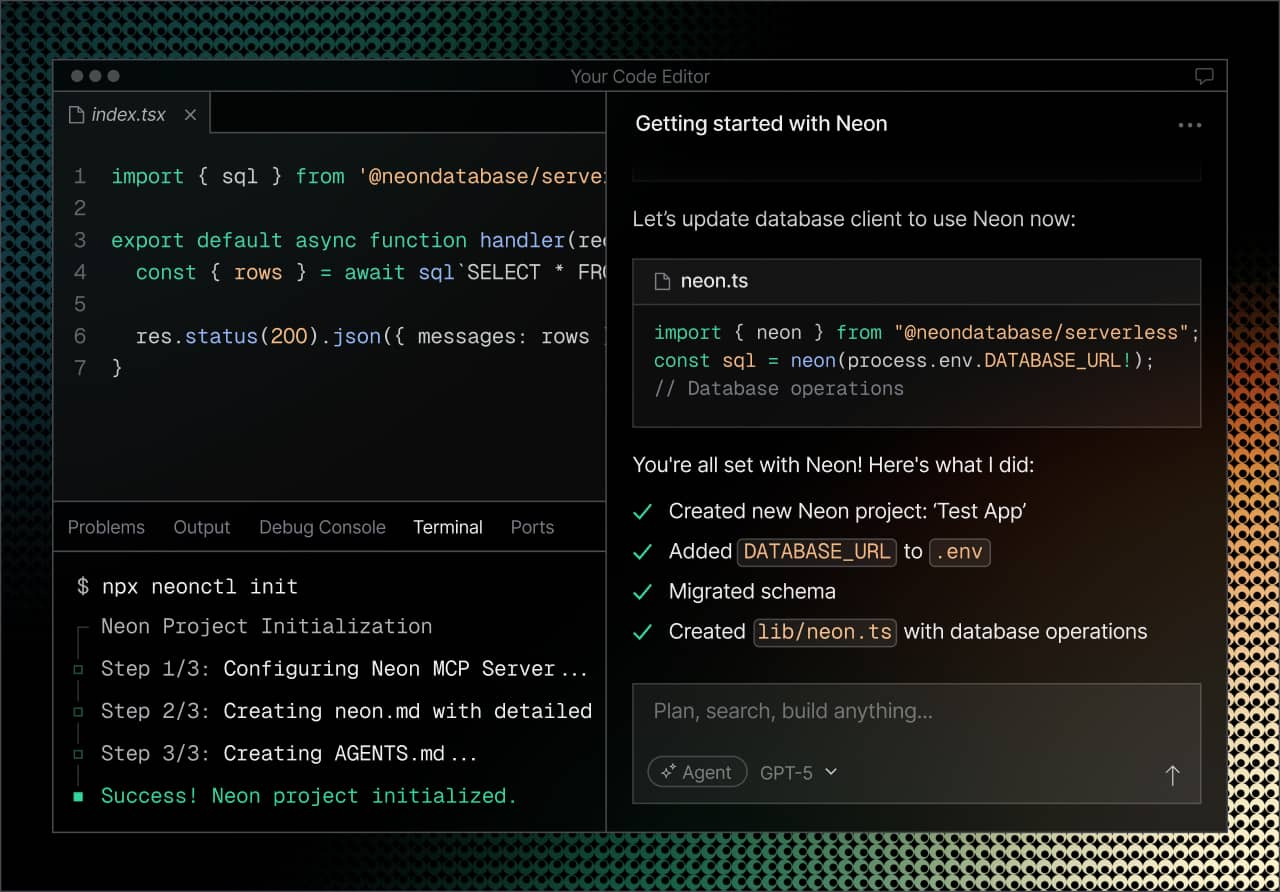
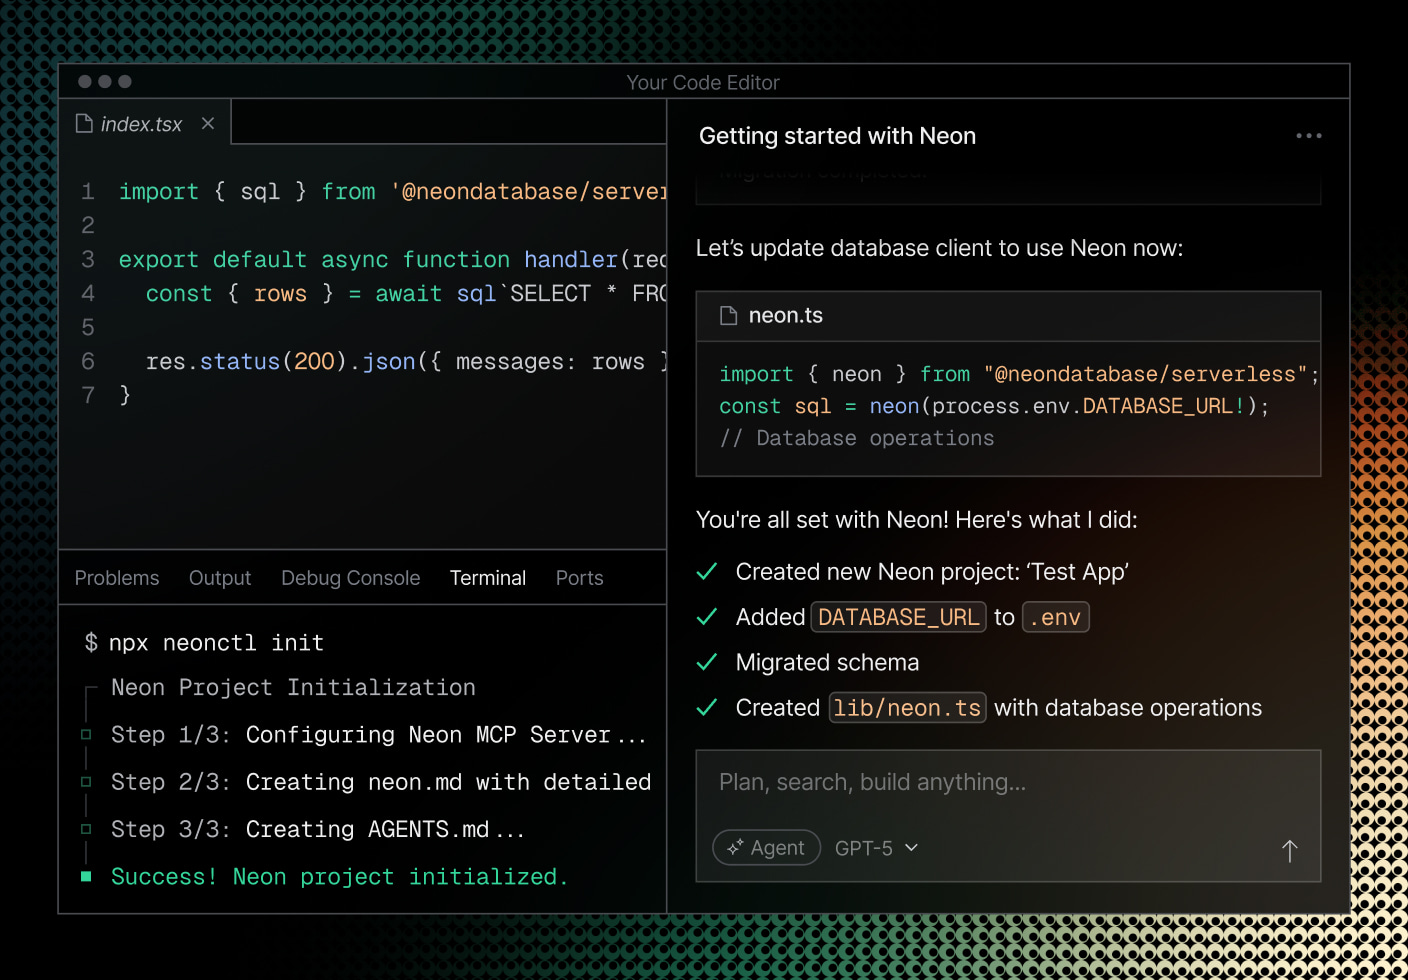
fix: upd ai adaptive

diff --git a/src/components/pages/home-new/ai/ai.jsx b/src/components/pages/home-new/ai/ai.jsx
@@ -38,11 +38,11 @@ const AI = () => (
           </div>
 
           <Image
-            className="hidden sm:block"
+            className="hidden outline outline-1 outline-gray-new-30 sm:block"
             src={ideMobile}
             alt="Neon in IDE"
-            width={640}
-            height={446}
+            width={704}
+            height={490}
             sizes="100vw"
             quality={100}
           />
